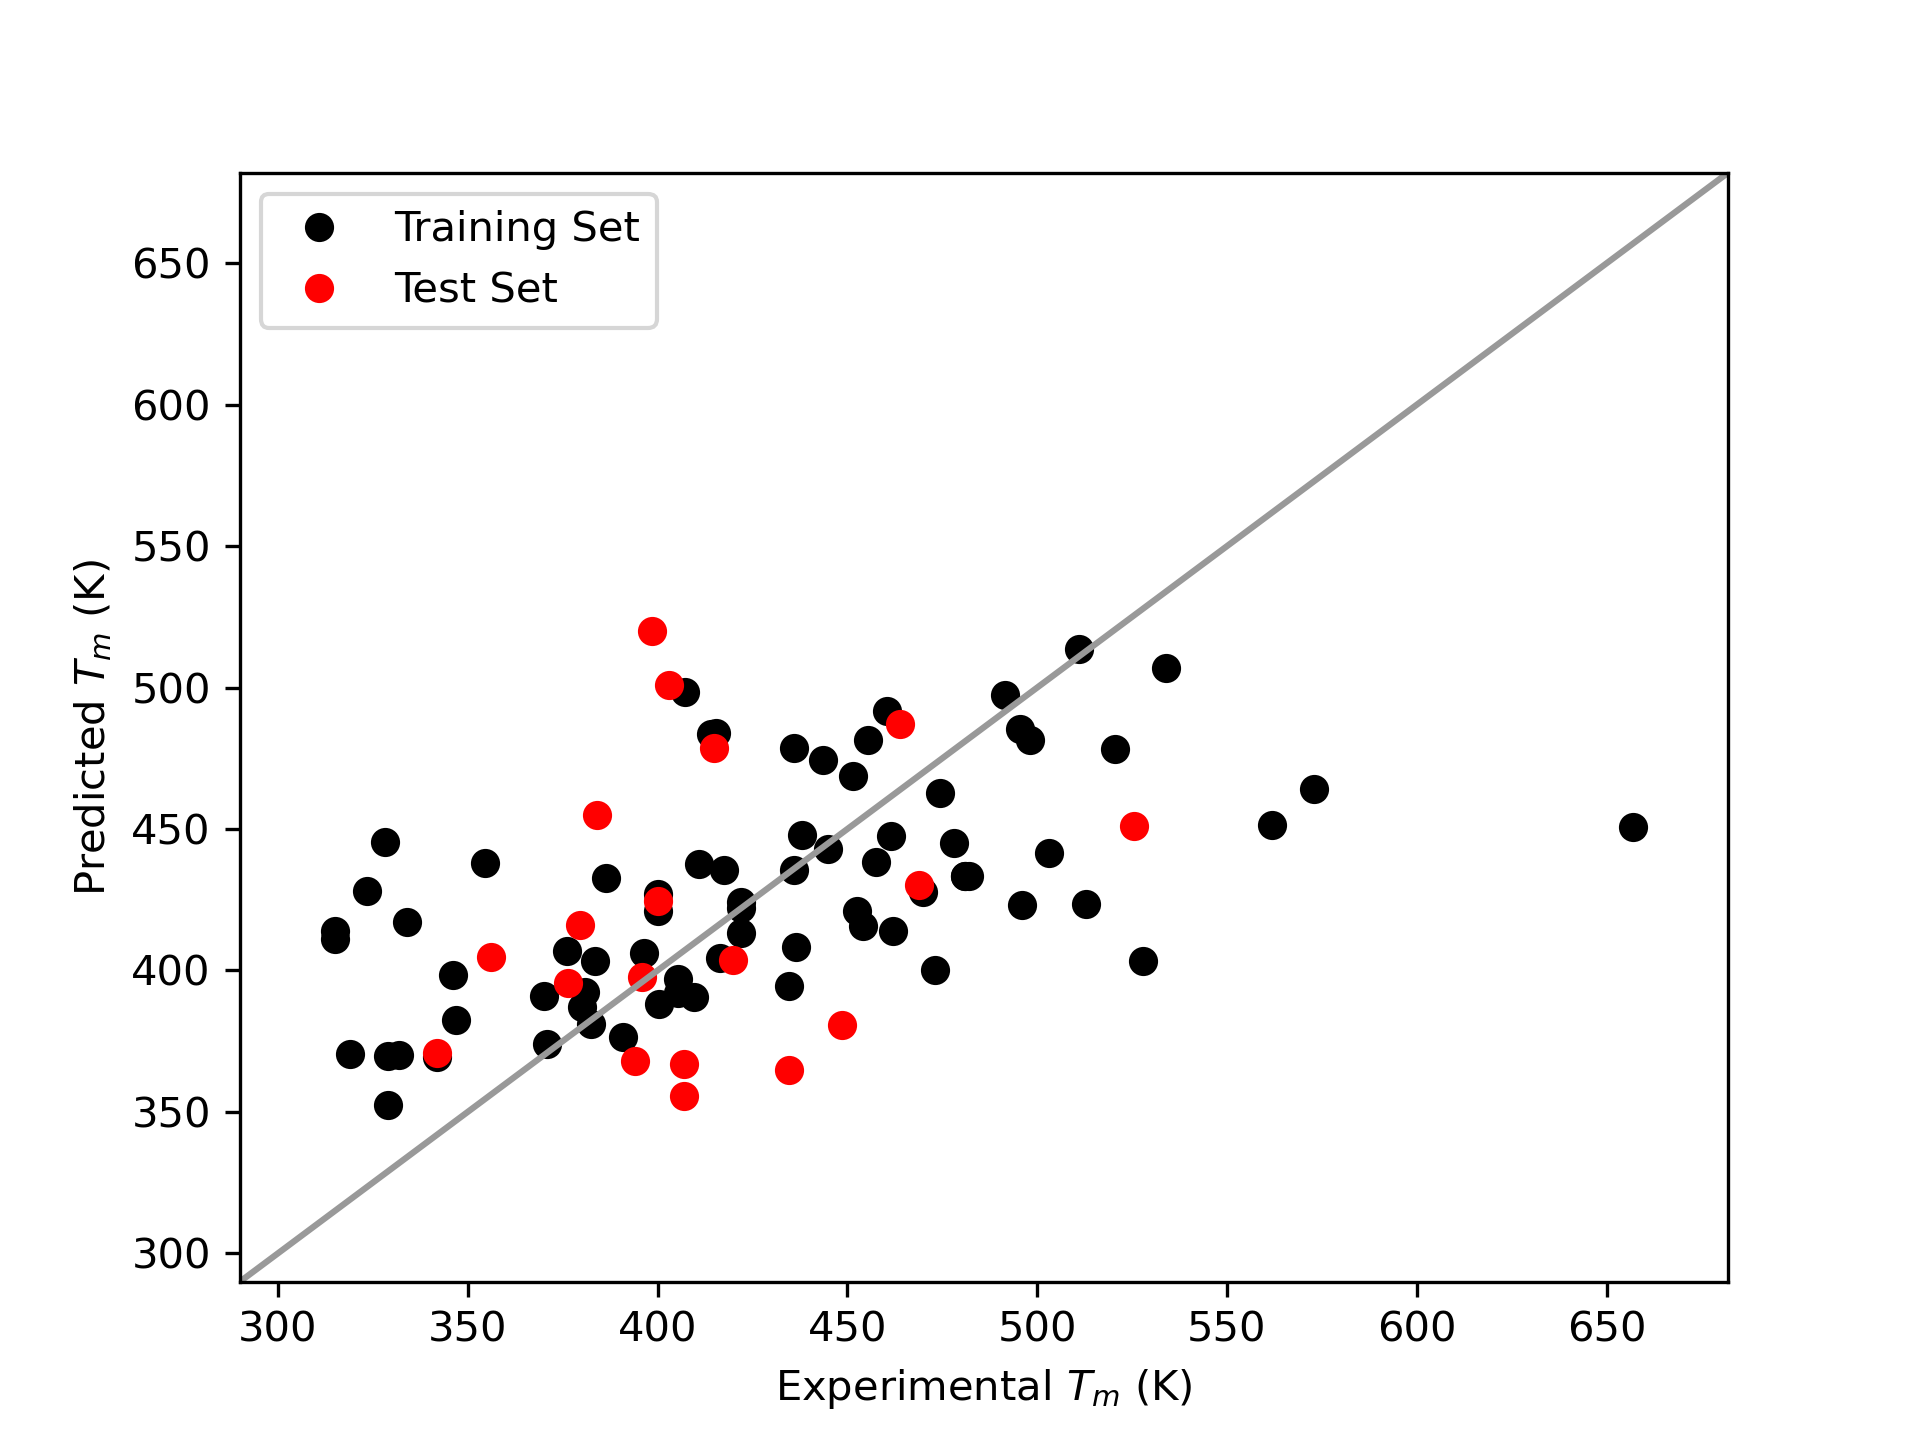
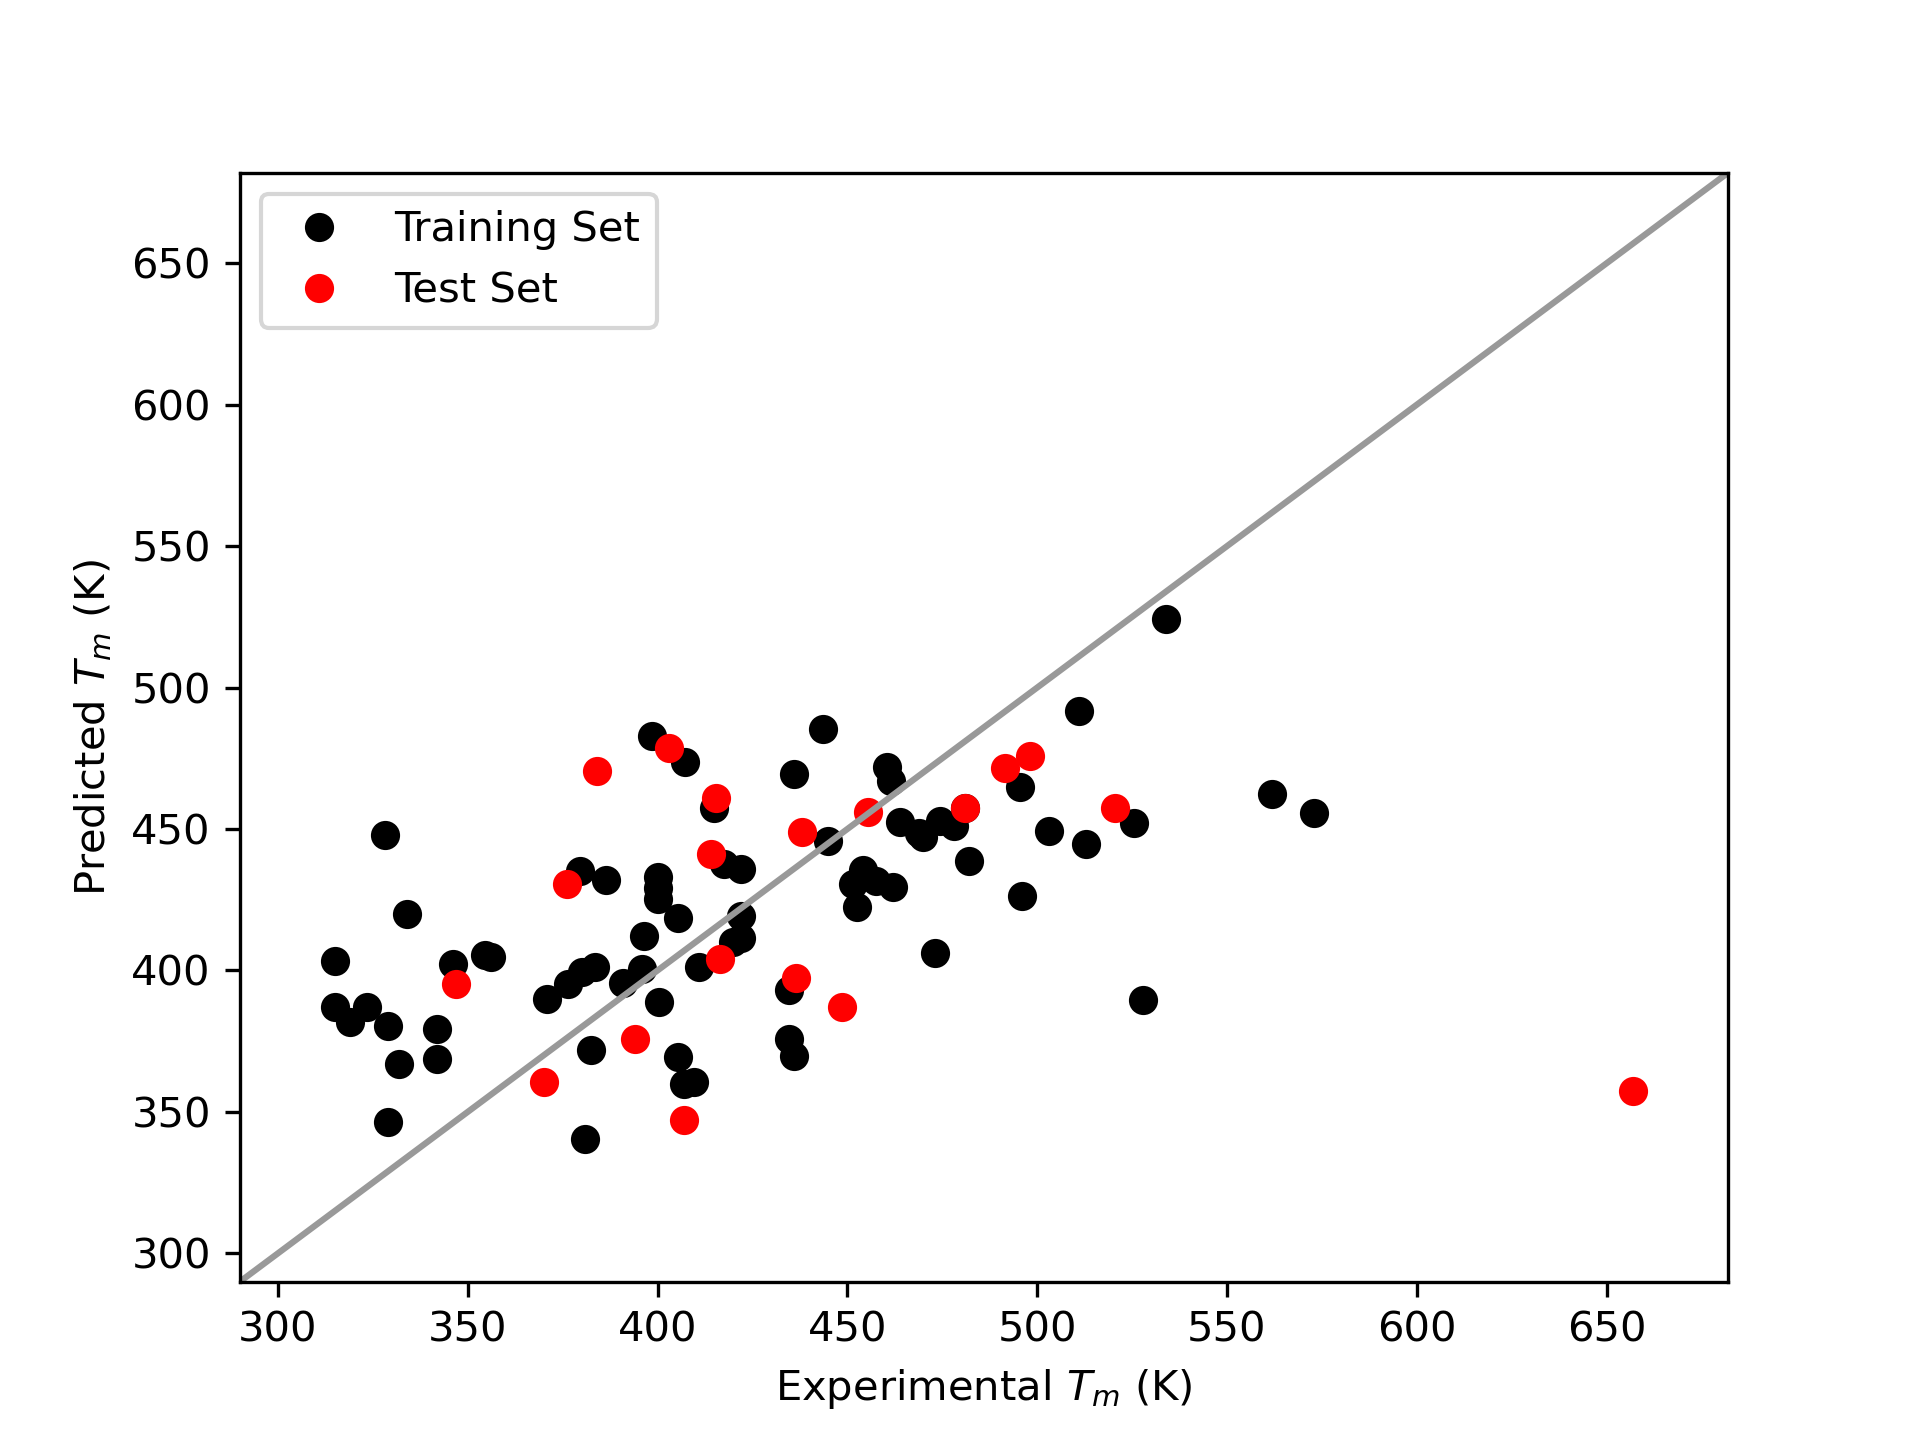
included hc,hq,bq plots, tables with parameters

diff --git a/mp_prediction_paper.py b/mp_prediction_paper.py
@@ -18,6 +18,8 @@ from sklearn.linear_model import Ridge
 from matplotlib import gridspec
 from PIL import Image
 
+###################### Thermodynamics-Based Model Code #########################
+
 ## STATIC BLOCK - DON'T MODIFY ANYTHING BELOW HERE ##
 #region
 # Helper Functions that will be used 
@@ -157,7 +159,7 @@ if MAKING_NEW_PLOTS:
                 rmse_err[0]=rmse_err[0]+rmse((fit_tm_model_err(dataset_test,letters_in_use)),dataset_test['T_m (K)'])/(number_of_runs)
                 rmse_err[1]=rmse_err[1]+rmse((fit_tm_model_err(dataset_train,letters_in_use)),dataset_train['T_m (K)'])/(number_of_runs)
 
-        print(rmse_err)
+        #print(rmse_err)
         ax= (make_plots(dataset_test,dataset_train,letters_in_use,dataset_name,avg_model_err,rmse_err))
         
         plots[i]= ax
@@ -166,7 +168,7 @@ if MAKING_NEW_PLOTS:
 #endregion
     ## STATIC BLOCK - DON'T MODIFY ANYTHING ABOVE HERE ##
 
-
+###################### Machine Learning Model Code #########################
 
 r'''
 # Melting Point Prediction for Quinones and Hydroquinones
@@ -188,7 +190,8 @@ In this study, two different computational approaches were developed to predict 
 
 '''
 # Introduction
-'''
+
+r'''
 ## Introduction
 
 Quinone- and hydroquinone-based molecules have gathered attention recently as electrolyte candidate molecules for redox flow batteries, among other applications\cite{Shimizu2017,Kwabi2018,Goulet2019}. Our group has recently proposed using a eutectic mixture of benzoquinone-based molecules as a high energy density positive electrolyte for flow batteries that remains liquid at room temperature. In order to identify promising materials for this application, knowing the melting temperatures of the quinone and hydroquinone molecules is essential. With the model we have developed, the melting points of the pure component quinones and hydroquinones can be used to predict the melting point of a eutectic mixture. However, melting data is not available for all the quinones and hydroquinones of interest. To address this challenge, we developed a computational model that can be used to predict the melting points of quinone and hydroquinone molecules that are not available in literature. 
@@ -204,7 +207,7 @@ r'''
 
 ### Machine Learning Model
 
-For the traditional machine learning approach, we used the Mordred molecular descriptor calculated to featurize our quinone and hydroquinone based molecules using just the chemical SMILES string as the input
+For the more traditional machine learning approach, we used the Mordred molecular descriptor calculator (available as a python package) to featurize our quinone and hydroquinone based molecules using just the chemical SMILES string as the input \cite{Moriwaki2018}. This generated approximately 1000 usable features for each molecule. After generating the features, they were then standardized so that each feature was a gaussian with zero mean and unit variance. The standardization was applied independently to the training set and test set. The standardized features were then used in a ridge regression ($\alpha=100$) to generate the melting point prediction model. 
 
 ### Thermodynamics-Based Model
 
@@ -267,9 +270,9 @@ $$
 where the parameters $a, b, c....$ will be different values from before.
 
 '''
-# This is where we need to start inserting plots. I'm going to copy and paste the code from Wunmi's T_m code, and modify it to be just for hydrocarbons, Vm^(-2)
+
 # Hydrocarbon plot
-MAKING_NEW_PLOTS=False
+MAKING_NEW_PLOTS=True
 if MAKING_NEW_PLOTS:
     ## EDIT BELOW HERE
     ### Change datasets used, model form, starting guesses
@@ -295,7 +298,6 @@ if MAKING_NEW_PLOTS:
     #region
     num_predictors= list(range(len(findstr(model_form, 'predictors'))))
     used_predictors= []
-
     for i in range(len(all_possible_predictors)):
         this_predictor= all_possible_predictors[i]
         if findstr(model_form, this_predictor):
@@ -309,6 +311,7 @@ if MAKING_NEW_PLOTS:
     letters_in_use=letters_in_use[0:num_parameters]
     num_parameters= list(range(num_parameters))
 
+    
     plots=list(range(num_datasets))
     fig = plt.figure()      
     for i in range(num_datasets):
@@ -316,6 +319,7 @@ if MAKING_NEW_PLOTS:
         rmse_err=[0,0]
         number_of_runs=5
         count=0
+        hc_parameters=np.zeros((number_of_runs,len(num_parameters)))
         while count < number_of_runs:
             dataset= datasets[i]
             pd.set_option("display.max_rows", None, "display.max_columns", None)
@@ -329,6 +333,8 @@ if MAKING_NEW_PLOTS:
             if statistics.mean(np.absolute(fit_tm_model_err(dataset_test,letters_in_use)
             -dataset_test['T_m (K)']))/(number_of_runs)<(70/number_of_runs) and letters_in_use[0]<0:
                 #st.write(letters_in_use)
+                hc_parameters[count,:]=letters_in_use
+                
                 avg_model_err[0]=avg_model_err[0]+(statistics.mean(np.absolute(fit_tm_model_err
                 (dataset_test,letters_in_use)-dataset_test['T_m (K)']))/(number_of_runs))
                 avg_model_err[1]=avg_model_err[1]+(statistics.mean(np.absolute(fit_tm_model_err
@@ -380,7 +386,7 @@ The quinone and hydroquinone datasets were initially fitted to the model indepen
 We tested several different functional forms for the numerator, but found that $V_m^{-1}$ consistently yielded the lowest errors. We calculated both the average absolute error (which has been reported in other melting point prediction literature\cite{Preiss2011}) and the root mean square error, which is commonly used in machine learning approaches\cite{Nigsch2006}.
 '''
 # Quinone Plot
-MAKING_NEW_PLOTS=False
+MAKING_NEW_PLOTS=True
 if MAKING_NEW_PLOTS:
     ## EDIT BELOW HERE
     ### Change datasets used, model form, starting guesses
@@ -396,7 +402,7 @@ if MAKING_NEW_PLOTS:
 
     # CHANGE STARTING GUESSES HERE
     # Note: You must have the correct number of starting guesses to match the number of parameters in the model form, and you must also have the correct number of sets of starting guesses depending how many datasets you're testing at once.
-    starting_guesses= [[-1e+01,3e+02,-1e-01,2e-02,-8e-02,-3e-02]]
+    starting_guesses= [[-1e+01,3e+02,-1e-01,1e-02,-8e-02,-3e-02]]
 
     #endregion
     ## EDIT ABOVE HERE
@@ -426,6 +432,7 @@ if MAKING_NEW_PLOTS:
         rmse_err=[0,0]
         number_of_runs=5
         count=0
+        bq_parameters=np.zeros((number_of_runs,len(num_parameters)))
         while count < number_of_runs:
             dataset= datasets[i]
             pd.set_option("display.max_rows", None, "display.max_columns", None)
@@ -439,6 +446,7 @@ if MAKING_NEW_PLOTS:
             if statistics.mean(np.absolute(fit_tm_model_err(dataset_test,letters_in_use)
             -dataset_test['T_m (K)']))/(number_of_runs)<(70/number_of_runs) and letters_in_use[0]<0:
                 #st.write(letters_in_use)
+                bq_parameters[count,:]=letters_in_use
                 avg_model_err[0]=avg_model_err[0]+(statistics.mean(np.absolute(fit_tm_model_err
                 (dataset_test,letters_in_use)-dataset_test['T_m (K)']))/(number_of_runs))
                 avg_model_err[1]=avg_model_err[1]+(statistics.mean(np.absolute(fit_tm_model_err
@@ -447,7 +455,6 @@ if MAKING_NEW_PLOTS:
                 rmse_err[0]=rmse_err[0]+rmse((fit_tm_model_err(dataset_test,letters_in_use)),dataset_test['T_m (K)'])/(number_of_runs)
                 rmse_err[1]=rmse_err[1]+rmse((fit_tm_model_err(dataset_train,letters_in_use)),dataset_train['T_m (K)'])/(number_of_runs)
 
-        print(rmse_err)
         ax= (make_plots(dataset_test,dataset_train,letters_in_use,dataset_name,avg_model_err,rmse_err))
         
         plots[i]= ax
@@ -464,7 +471,7 @@ else:
     st.image(bq_plot,caption='VBT model assuming dipole-dipole interaction for quinone dataset.',use_column_width=True)
 
 # Hydroquinone Plot
-MAKING_NEW_PLOTS=False
+MAKING_NEW_PLOTS=True
 if MAKING_NEW_PLOTS:
     ## EDIT BELOW HERE
     ### Change datasets used, model form, starting guesses
@@ -510,6 +517,7 @@ if MAKING_NEW_PLOTS:
         rmse_err=[0,0]
         number_of_runs=5
         count=0
+        hq_parameters=np.zeros((number_of_runs,len(num_parameters)))
         while count < number_of_runs:
             dataset= datasets[i]
             pd.set_option("display.max_rows", None, "display.max_columns", None)
@@ -523,6 +531,7 @@ if MAKING_NEW_PLOTS:
             if statistics.mean(np.absolute(fit_tm_model_err(dataset_test,letters_in_use)
             -dataset_test['T_m (K)']))/(number_of_runs)<(70/number_of_runs) and letters_in_use[0]<0:
                 #st.write(letters_in_use)
+                hq_parameters[count,:]=letters_in_use
                 avg_model_err[0]=avg_model_err[0]+(statistics.mean(np.absolute(fit_tm_model_err
                 (dataset_test,letters_in_use)-dataset_test['T_m (K)']))/(number_of_runs))
                 avg_model_err[1]=avg_model_err[1]+(statistics.mean(np.absolute(fit_tm_model_err
@@ -544,7 +553,7 @@ else:
     hq_plot=Image.open('HQ_plot.png')
     st.image(hq_plot,caption='VBT model assuming dipole-dipole interaction for hydroquinone dataset.',use_column_width=True)
 
-'''
+r'''
 We note that there appears to be a systematic underestimation of the melting points of the higher $T_m$ and an overestimate of the melting points of the lower $T_m$ molecules. We attribute this systematic error to our model for enthalpy. By using all of the molecules in the dataset to generate one set of fitted parameters, we are effectively forcing the assumption that all molecules have the same types of intermolecular interactions. However, this is unlikely true, as the higher melting molecules likely have stronger intermolecular interactions (perhaps hydrogen bonding), and thus should have higher enthalpies of melting. By combining different types of quinones molecules in this way, we are essentially taking an intermediate strength of intermolecular interaction and applying it to all the molecules in the dataset, which results in the over- and under- estimation that we see in our data. This was verified by analyzing the types of molecules on both ends of the spectrum to see if there were obvious reasons why the higher melting compounds might have stronger interactions and the lower melting compounds would have weaker interactions.
 
 
@@ -552,17 +561,29 @@ We note that there appears to be a systematic underestimation of the melting poi
 Upon observing the similarities between the parameters for the quinone and hydroquinone models, we combined both into a single dataset and fit a new model - the combined Quinone+Hydroquinone dataset. 
 '''
 # Experimental Section
-'''
+r'''
 ## Experimental
 
 ### Machine Learning Model
 
-All of the data for this method was downloaded from the Reaxys database online (reaxys.com). For each of the quinone and hydroquinone datasets, a substructure search was performed 
+All of the data for this method was downloaded from the Reaxys database online (reaxys.com). For each of the quinone and hydroquinone datasets, a substructure search was performed with a structure editor query (benzoquinone example shown below in Figure \cite{bq_reaxys_search}). We limited our search to compounds witha molecular weight of less than 216 g/mol for the quinone-based molecules and 204 g/mol for the hydroquinone-based molecules. We then filtered the data by compounds which had melting points available from literature, and downloaded them using Reaxys's download feature.
+
+Once all the compounds were downloaded we had to further process the data for molecules that had multiple reported melting points.
 
 ### Thermodynamics-Based Model
 
 
 '''
+
+hc_parameters_df=pd.DataFrame(data=hc_parameters,index=["Run 1","Run 2","Run 3","Run 4","Run 5"],columns=["g","h","a","b","c","d"])
+bq_parameters_df=pd.DataFrame(data=bq_parameters,index=["Run 1","Run 2","Run 3","Run 4","Run 5"],columns=["g","h","a","b","c","d"])
+hq_parameters_df=pd.DataFrame(data=hq_parameters,index=["Run 1","Run 2","Run 3","Run 4","Run 5"],columns=["g","h","a","b","c","d"])
+st.markdown('''### Hydrocarbon Parameters ''')
+st.write(hc_parameters_df)
+st.markdown('''### Quinone Parameters ''')
+st.write(bq_parameters_df)
+st.markdown('''### Hydroquinone Parameters ''')
+st.write(hq_parameters_df)
 
 # How to put code in markdown using python formatting
     # '''
@@ -573,5 +594,8 @@ All of the data for this method was downloaded from the Reaxys database online (
     # '''
 
 # Questions for Antonio:
-    # How did you split the datasets into training and test sets?
+    # How did you split the datasets into training and test sets? I didn't see where this happens in the code
     # Do you use any of the functions in the helper_functions.py file? I couldn't find them in either parse_reaxys_data or featurization_regression.py
+
+# To do:
+    # Re-split training and test set for ML approach and re-write so that it re-shuffles on every run of the code
